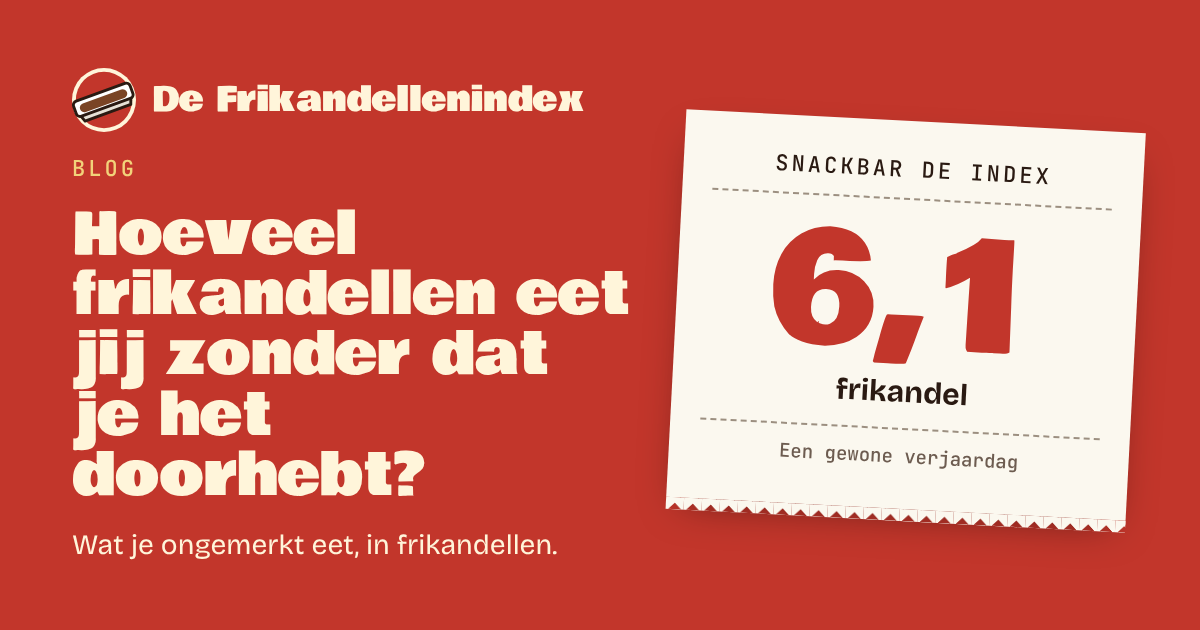
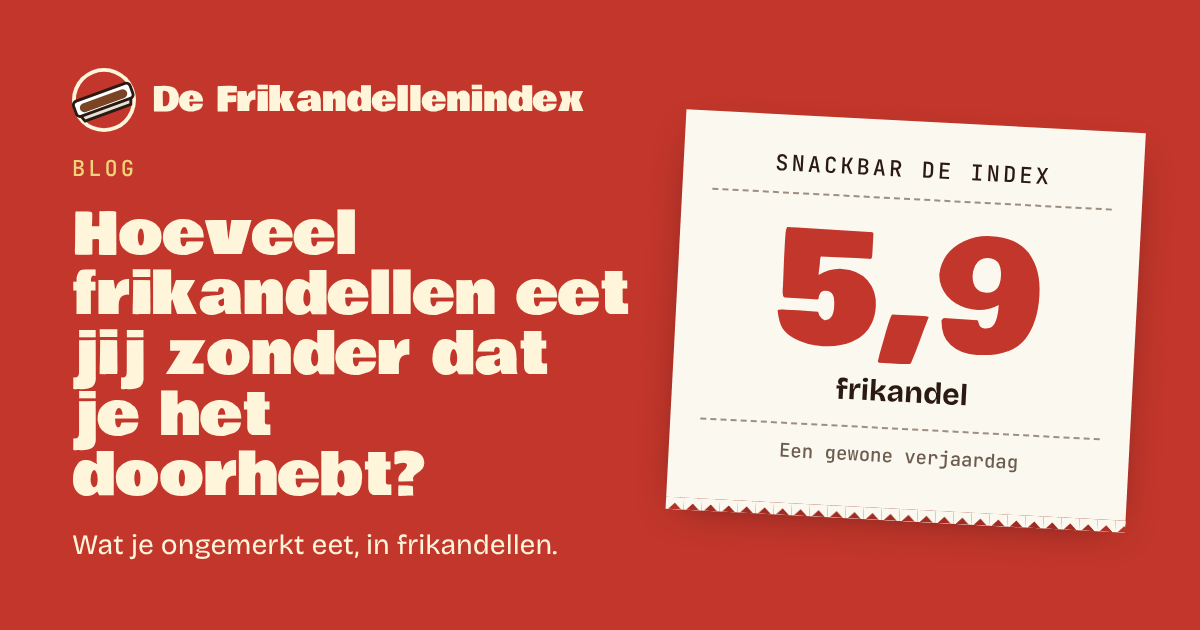
Correctie handje chips: 10 g volgens RIVM (was 14 g, eigen afleiding)
- Handje chips 10 g (0,3), handje tortillachips 13 g (0,3): calculator, tabel, nieuws, index, top 10 per moment
- Wist je dat chips: schaaltje 40 g i.p.v. uitdeelzakje; bronzin gecorrigeerd
- Blogs: verjaardag 5,9 (bijna zes), snackdag 3,9, grote zak chips 1,2; deelplaatjes opnieuw
- Zo rekenen we: handje chips 10 g; 'Handje noten' (kruidnoten zijn eigen keuze)
- Dit is ook 1 frikandel: 3 handjes chips

Claude-Session: https://claude.ai/code/session_01APyxqT3XNksrbGjuJRvNZj

Changed region(s): [[0.6167, 0.3619, 0.8942, 0.573]]

diff --git a/pages/blog-grote-zak-chips.html b/pages/blog-grote-zak-chips.html
@@ -32,8 +32,8 @@
     <p>Het gaat dus niet alleen om wilskracht of honger. Ook de omgeving doet mee.</p>
     <h2 class="h3">En hoeveel frikandellen zijn dat?</h2>
     <p>Bij De Frikandellenindex rekenen we een frikandel als 180 kcal.</p>
-    <p>Neem bijvoorbeeld vier handjes chips. Volgens de index komt dat neer op ongeveer 1,7 frikandel.</p>
-    <p>Dat voelt anders dan wanneer iemand tijdens een film anderhalve frikandel voor je neerlegt en daarna nog een stukje.</p>
+    <p>Neem bijvoorbeeld vier handjes chips. Volgens de index komt dat neer op ongeveer 1,2 frikandel.</p>
+    <p>Dat voelt anders dan wanneer iemand tijdens een film een frikandel voor je neerlegt en daarna nog een stukje.</p>
     <p>Toch gaat het om dezelfde hoeveelheid energie.</p>
     <p>En daar zit precies de gedachte achter De Frikandellenindex.</p>
     <h2 class="h3">Het gaat niet om de chips</h2>
@@ -45,5 +45,5 @@
     <div class="art-acties"><a class="cta" href="/reken/?moment=tv">Hoeveel frikandellen was jouw avond op de bank? →</a><button type="button" class="deel" data-deel="blog-grote-zak-chips">Deel deze blog</button><span class="deel-ok small" role="status"></span></div>
     <a class="link" href="/calorieen-chips/">Hoeveel calorieën heeft een zak chips? →</a>
     <a class="link" href="/nieuws/chipszak-geen-portie/">Lees: Vrouw die rechtstreeks uit chipszak eet, ontkent portie te hebben genomen →</a>
-    <p class="small">Bronnen: B.J. Rolls e.a. (2004), <a class="link" href="https://pubmed.ncbi.nlm.nih.gov/15036784/" rel="noopener">"Increasing the portion size of a packaged snack increases energy intake in men and women"</a>, <i>Appetite</i>. USDA Nutrition Evidence Systematic Review, <a class="link" href="https://nesr.usda.gov/2025-dietary-guidelines-advisory-committee-systematic-reviews/portion-size_energy-intake" rel="noopener">"Portion Size and Energy Intake: A Systematic Review"</a>, voor de Dietary Guidelines Advisory Committee 2025. Voedingswaarden uit NEVO-online (RIVM); handje chips 14 g (RIVM), zak 225 g (winkelgewicht). 1 frikandel = 180 kcal. De index vergelijkt calorieën, niet hoe gezond producten zijn. <a class="link" href="/zo-rekenen-we/">Zo rekenen we →</a></p>
+    <p class="small">Bronnen: B.J. Rolls e.a. (2004), <a class="link" href="https://pubmed.ncbi.nlm.nih.gov/15036784/" rel="noopener">"Increasing the portion size of a packaged snack increases energy intake in men and women"</a>, <i>Appetite</i>. USDA Nutrition Evidence Systematic Review, <a class="link" href="https://nesr.usda.gov/2025-dietary-guidelines-advisory-committee-systematic-reviews/portion-size_energy-intake" rel="noopener">"Portion Size and Energy Intake: A Systematic Review"</a>, voor de Dietary Guidelines Advisory Committee 2025. Voedingswaarden uit NEVO-online (RIVM); handje chips 10 g (RIVM), zak 225 g (winkelgewicht). 1 frikandel = 180 kcal. De index vergelijkt calorieën, niet hoe gezond producten zijn. <a class="link" href="/zo-rekenen-we/">Zo rekenen we →</a></p>
   </article>

diff --git a/pages/blog-hoeveel-frikandellen-eet-jij.html b/pages/blog-hoeveel-frikandellen-eet-jij.html
@@ -3,7 +3,7 @@
     <a class="link" href="/nieuws/">← Terug naar nieuws en blogs</a>
     <span class="eyebrow">Blog · Stefan</span>
     <h1 class="h2">Hoeveel frikandellen eet jij zonder dat je het doorhebt?</h1>
-    <span class="blog-stempel"><b>6,1</b> frikandel<i>een gewone verjaardag</i></span>
+    <span class="blog-stempel"><b>5,9</b> frikandel<i>een gewone verjaardag</i></span>
     <p class="lead">Een verjaardag, een vrijdagborrel of koffie bij je schoonmoeder. Wat als je alles wat je tussendoor eet eens zou omrekenen naar frikandellen?</p>
     <p>Een frikandel eet je bewust. Dat is één keuze, één moment. Je loopt naar de snackbar, je rekent hem af, je eet hem op en klaar. Je eet er niet zomaar drie omdat je ondertussen met iets anders bezig was.</p>
     <p>Maar borrelnoten? Kaasblokjes? Chips? De hapjes die 'gewoon even' op tafel staan?</p>
@@ -24,8 +24,8 @@
     <h2 class="h3">Voorbeeld: een gewone verjaardag</h2>
     <p>Stel je voor: je bent op een verjaardag. Je drinkt twee biertjes, neemt vier handjes borrelnoten, vier kaasblokjes en nog twee handjes chips.</p>
     <p>Allemaal heel gewone dingen.</p>
-    <p>Samen: <b>ruim zes frikandellen</b>. En dat terwijl je misschien alleen het gevoel hebt dat je wat hapjes hebt gegeten.</p>
-    <div class="bon art-bon" role="group" aria-label="Bonnetje: De verjaardag"><div class="bon-h"><b>SNACKBAR DE INDEX</b><span>De verjaardag</span></div><div class="bon-r"><span>2× Biertje (flesje)</span><span>1,5</span></div><div class="bon-r"><span>4× Handje borrelnoten</span><span>3,0</span></div><div class="bon-r"><span>4× Blokje kaas</span><span>0,8</span></div><div class="bon-r"><span>2× Handje chips</span><span>0,8</span></div><div class="bon-t"><span>TOTAAL</span><span>6,1 FRIKANDEL</span></div><div class="bon-f">1100 kcal · 1 frikandel = 180 kcal · NEVO, RIVM</div></div>
+    <p>Samen: <b>bijna zes frikandellen</b>. En dat terwijl je misschien alleen het gevoel hebt dat je wat hapjes hebt gegeten.</p>
+    <div class="bon art-bon" role="group" aria-label="Bonnetje: De verjaardag"><div class="bon-h"><b>SNACKBAR DE INDEX</b><span>De verjaardag</span></div><div class="bon-r"><span>2× Biertje (flesje)</span><span>1,5</span></div><div class="bon-r"><span>4× Handje borrelnoten</span><span>3,0</span></div><div class="bon-r"><span>4× Blokje kaas</span><span>0,8</span></div><div class="bon-r"><span>2× Handje chips</span><span>0,6</span></div><div class="bon-t"><span>TOTAAL</span><span>5,9 FRIKANDEL</span></div><div class="bon-f">1056 kcal · 1 frikandel = 180 kcal · NEVO, RIVM</div></div>
     <p>Op De Frikandellenindex kun je zo'n moment zelf samenstellen. Je kiest wat je hebt gegeten en gedronken, tikt de hoeveelheden aan en krijgt je eigen bonnetje.</p>
     <p>Geen rekening in euro's, maar in frikandellen.</p>
     <h2 class="h3">Hoe kan dat?</h2>

diff --git a/pages/blog-millennials-snacken.html b/pages/blog-millennials-snacken.html
@@ -3,7 +3,7 @@
     <a class="link" href="/nieuws/">← Terug naar nieuws en blogs</a>
     <span class="eyebrow">Blogs · Onderzoek</span>
     <h1 class="h2">Nederlandse millennials snacken gemiddeld 4,5 keer per dag</h1>
-    <span class="blog-stempel"><b>4,2</b> frikandel<i>een gewone snackdag</i></span>
+    <span class="blog-stempel"><b>3,9</b> frikandel<i>een gewone snackdag</i></span>
     <p class="lead">Dat blijkt uit onderzoek van Wageningen University &amp; Research. Maar wie daarbij denkt aan chips, koek en chocolade, heeft niet het hele verhaal.</p>
     <p>Vier en een half keer per dag snacken.</p>
     <p>Dat klinkt als iemand die zijn werkplek strategisch tussen de snoepautomaat en de koelkast heeft ingericht.</p>
@@ -43,8 +43,8 @@
     <p>Niet om te suggereren dat alle snacks slecht zijn.</p>
     <h2 class="h3">Een gewone dag, omgerekend</h2>
     <p>Neem een doordeweekse dag met vier snackmomenten. Niets bijzonders, en de helft valt in de categorie koffie en brood.</p>
-    <div class="bon art-bon" role="group" aria-label="Bonnetje: Een gewone snackdag"><div class="bon-h"><b>SNACKBAR DE INDEX</b><span>Een gewone snackdag</span></div><div class="bon-r"><span>Ochtend: latte macchiato</span><span>0,6</span></div><div class="bon-r"><span>Middag: krentenbol</span><span>1,0</span></div><div class="bon-r"><span>Vier uur: stroopwafel</span><span>1,0</span></div><div class="bon-r"><span>Avond: 2 handjes chips + biertje</span><span>1,6</span></div><div class="bon-t"><span>TOTAAL</span><span>4,2 FRIKANDEL</span></div><div class="bon-f">753 kcal · 1 frikandel = 180 kcal · NEVO, RIVM</div></div>
-    <p>Vier gewone momenten. Ruim vier frikandellen.</p>
+    <div class="bon art-bon" role="group" aria-label="Bonnetje: Een gewone snackdag"><div class="bon-h"><b>SNACKBAR DE INDEX</b><span>Een gewone snackdag</span></div><div class="bon-r"><span>Ochtend: latte macchiato</span><span>0,6</span></div><div class="bon-r"><span>Middag: krentenbol</span><span>1,0</span></div><div class="bon-r"><span>Vier uur: stroopwafel</span><span>1,0</span></div><div class="bon-r"><span>Avond: 2 handjes chips + biertje</span><span>1,3</span></div><div class="bon-t"><span>TOTAAL</span><span>3,9 FRIKANDEL</span></div><div class="bon-f">709 kcal · 1 frikandel = 180 kcal · NEVO, RIVM</div></div>
+    <p>Vier gewone momenten. Bijna vier frikandellen.</p>
     <p>Niemand zou dat zo noemen. En dat hoeft ook niet. Maar het laat zien hoe gewone momenten bij elkaar optellen.</p>
     <h2 class="h3">Wat zegt dit over ons snackgedrag?</h2>
     <p>Het onderzoek laat vooral zien hoe veelzijdig snacken is.</p>

diff --git a/pages/zo-rekenen-we.html b/pages/zo-rekenen-we.html
@@ -8,8 +8,8 @@
     <h3>De snacks</h3>
     <p>Alle waarden komen uit NEVO-online versie 2025/9.0 van het RIVM. NEVO geeft waarden per 100 gram. Voor de porties geldt: wat je koopt, rekenen we zoals het in de winkel ligt. Wat je zelf pakt of inschenkt, met de maten van het RIVM (<a class="link" href="https://portie-online.rivm.nl" rel="noopener">Portie-online</a>). Een handje chips is bij ons een half uitdeelzakje.</p>
     <div class="tablewrap"><table><thead><tr><th>Portie</th><th>Gewicht</th></tr></thead><tbody>
-      <tr><td>Handje noten of kruidnoten</td><td>25 g</td></tr>
-      <tr><td>Handje chips</td><td>14 g</td></tr>
+      <tr><td>Handje noten</td><td>25 g</td></tr>
+      <tr><td>Handje chips</td><td>10 g</td></tr>
       <tr><td>Blokje kaas</td><td>10 g</td></tr>
       <tr><td>Biertje (flesje)</td><td>300 ml</td></tr>
       <tr><td>Glas wijn</td><td>150 ml</td></tr>
